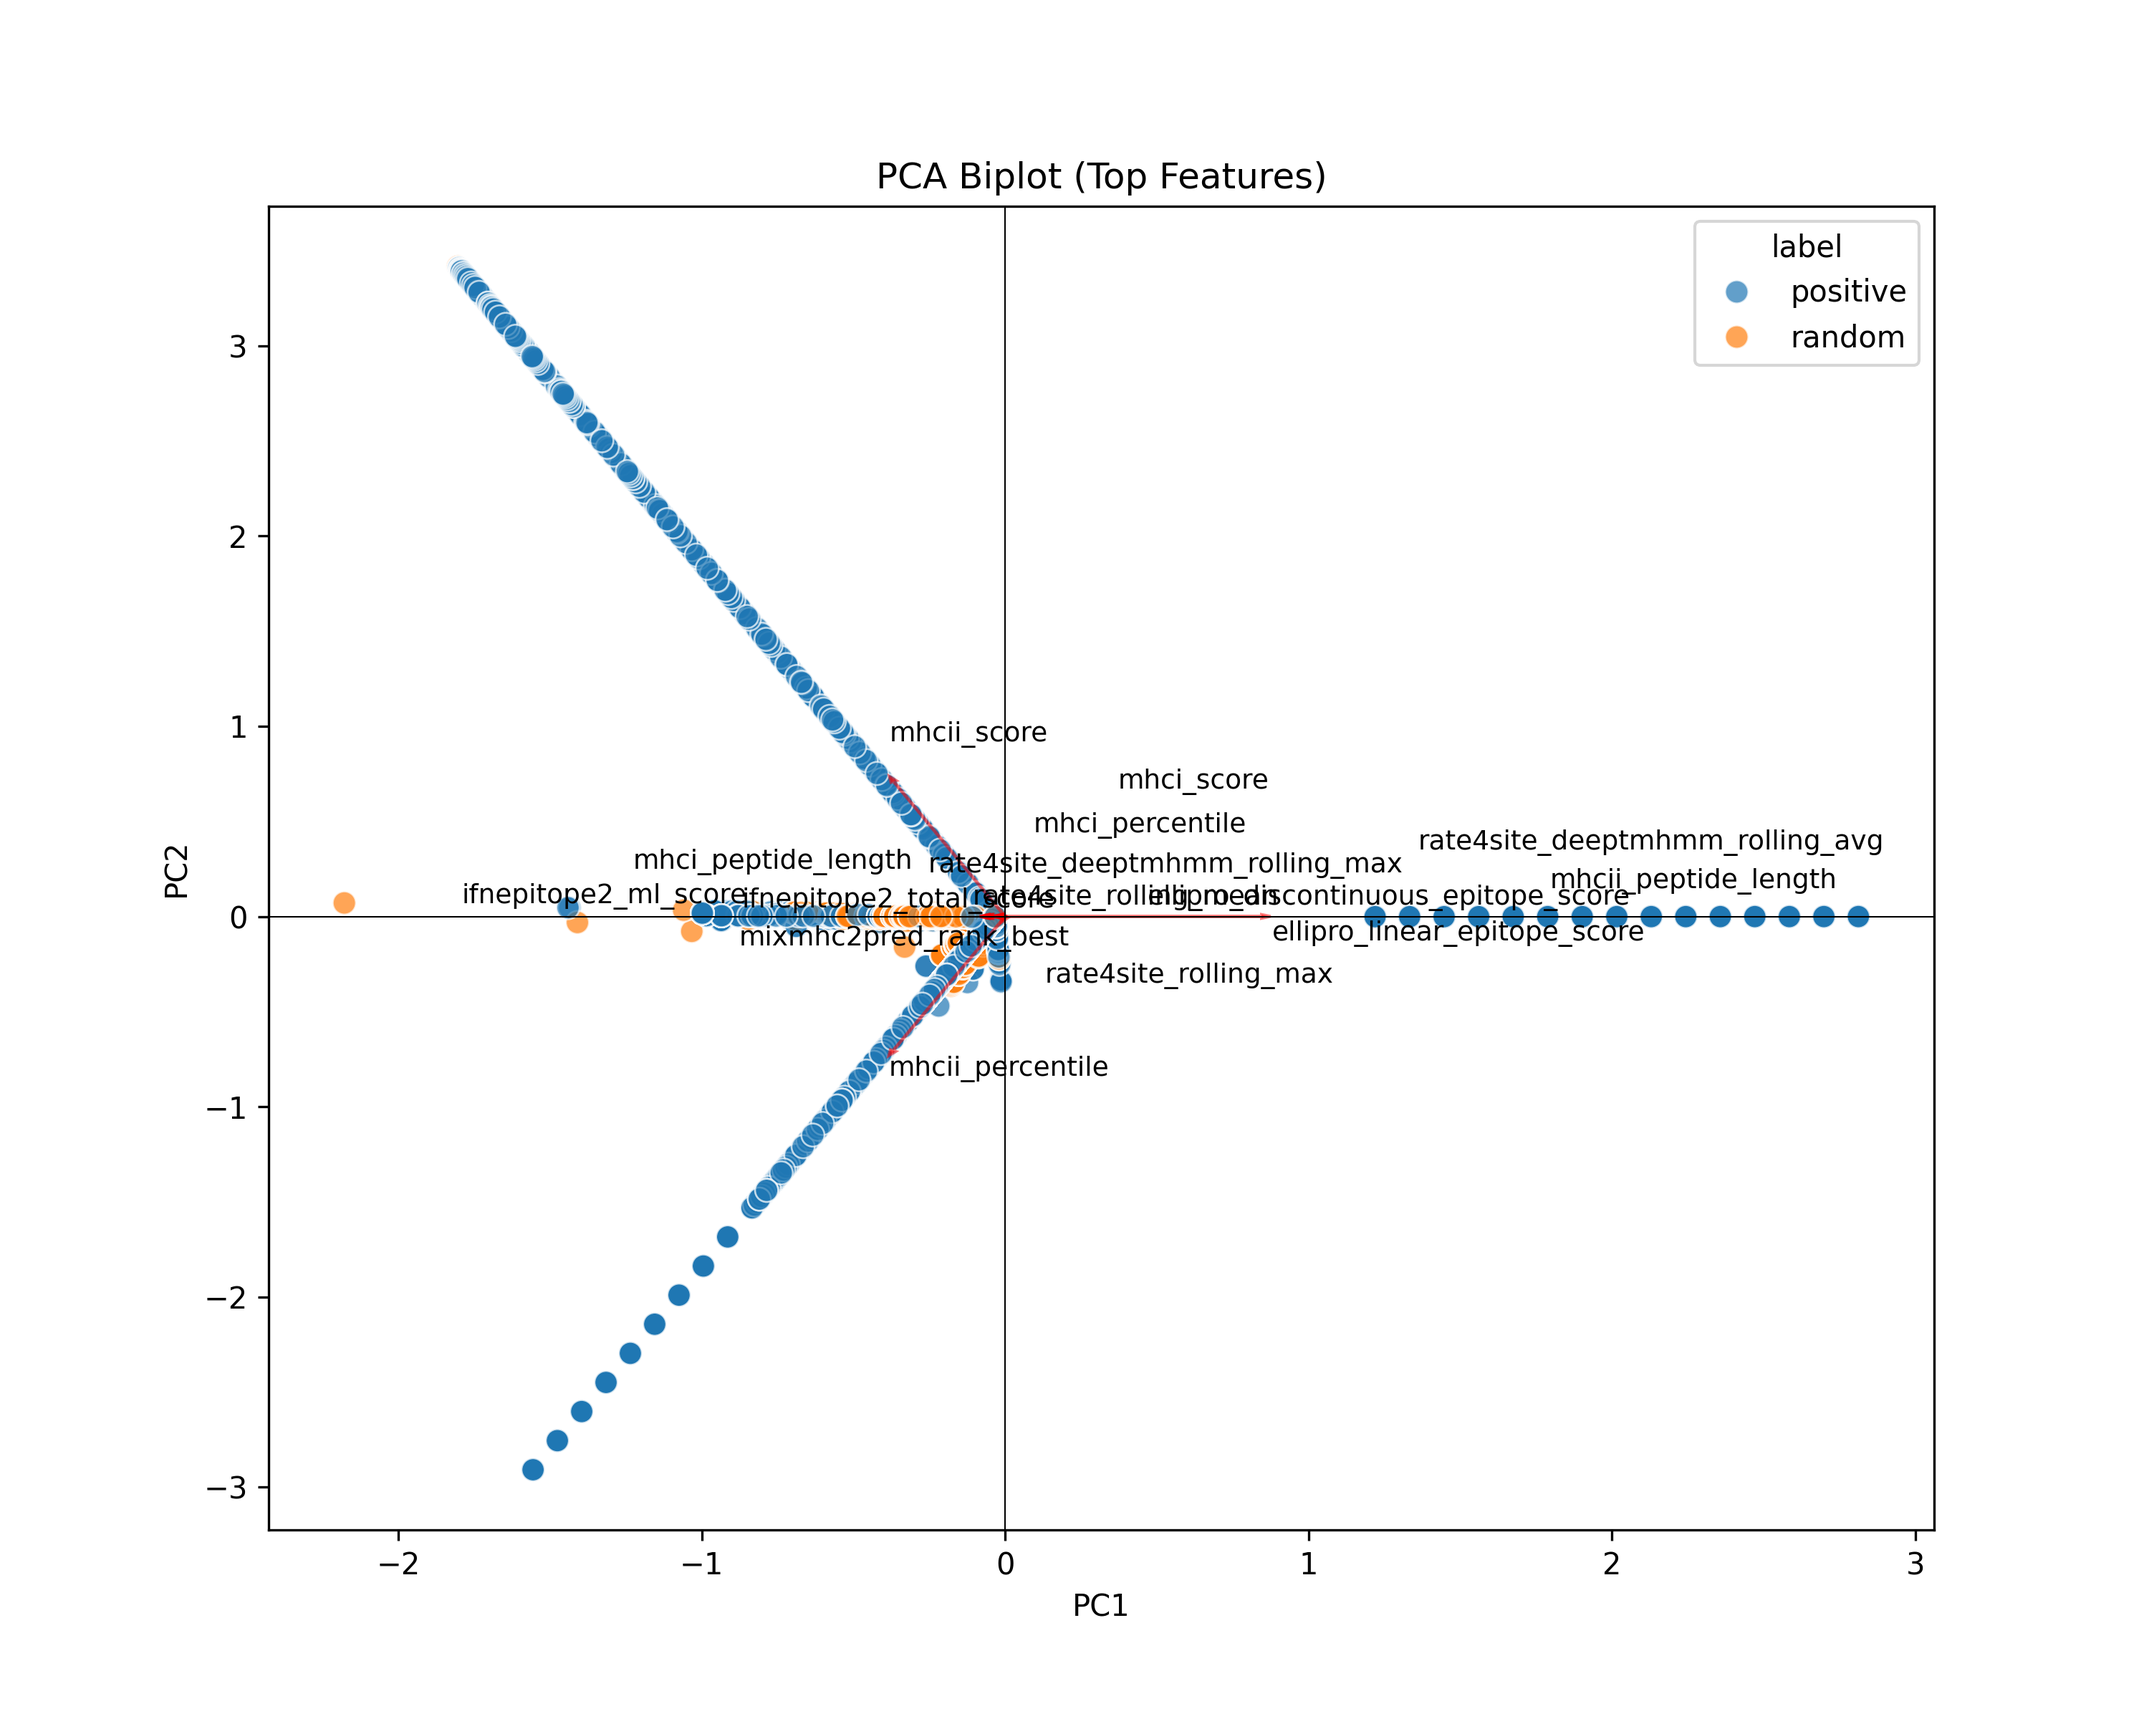
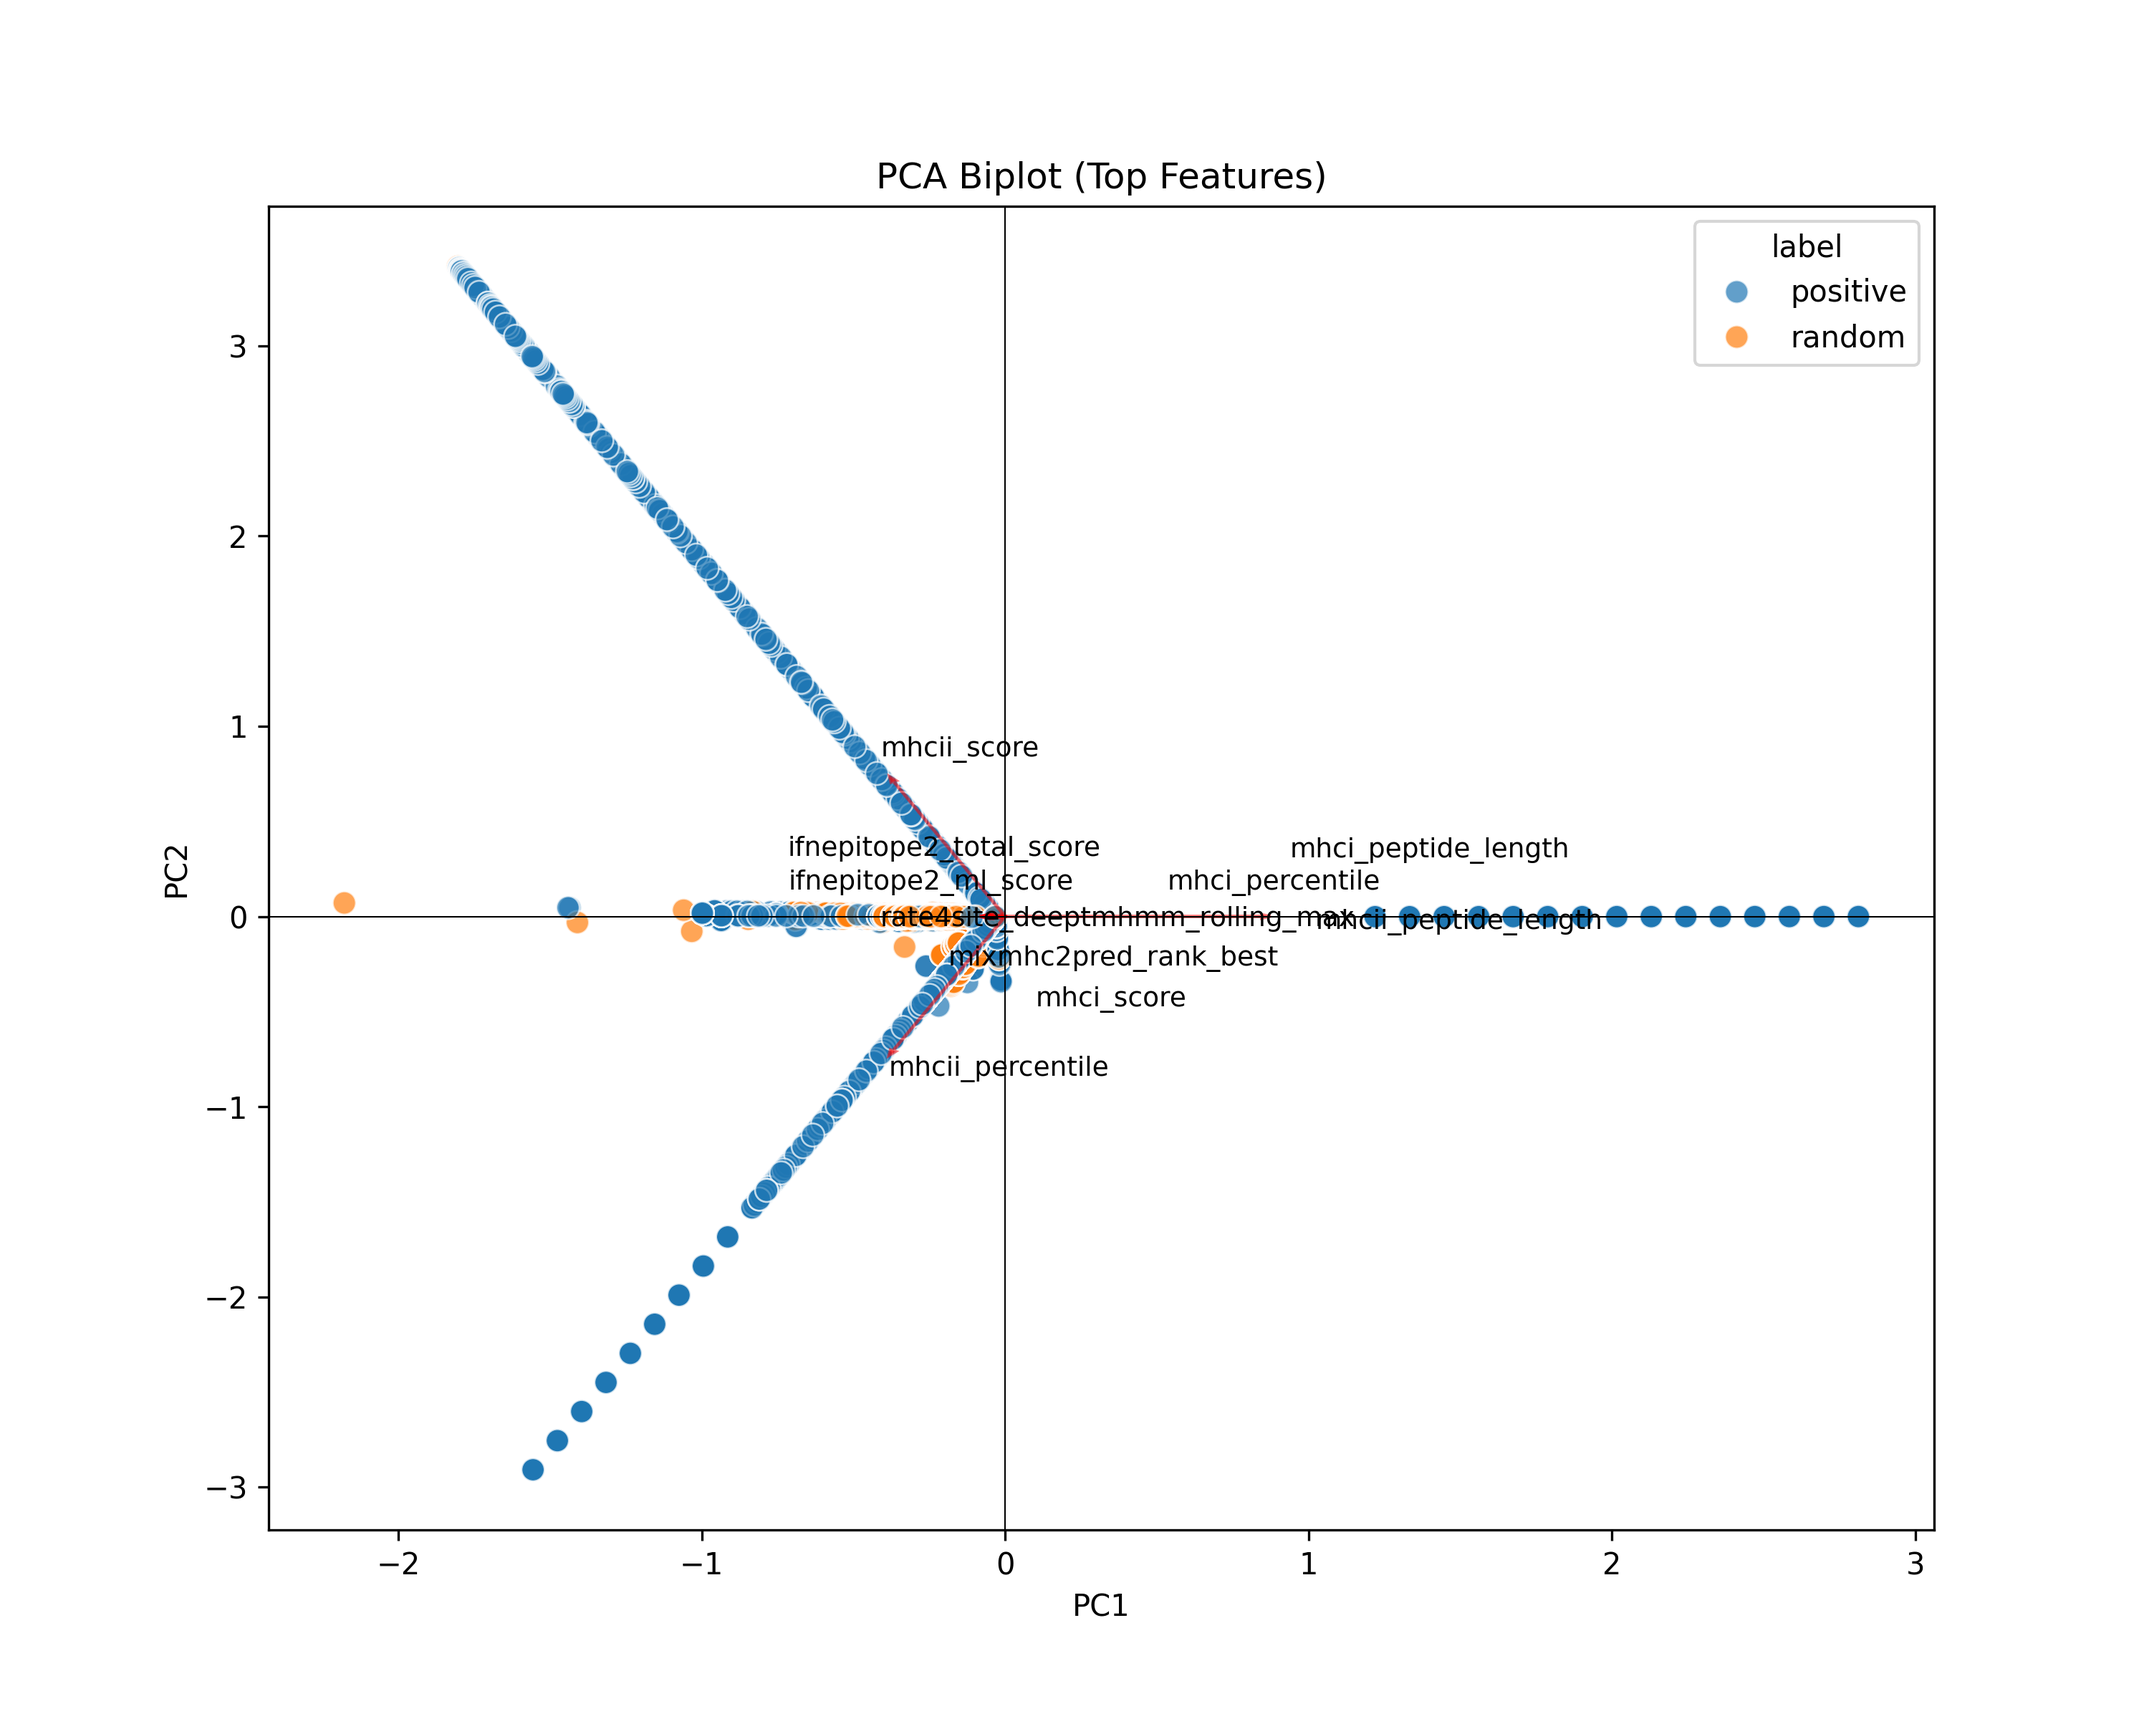
adding updated plots

Changed region(s): [[0.217, 0.4375, 0.868, 0.5938], [0.403, 0.4062, 0.496, 0.4375]]

diff --git a/bin/pca_analysis.py b/bin/pca_analysis.py
@@ -99,7 +99,7 @@ def plot_scree(ipca, output_dir: str):
     }).to_csv(os.path.join(output_dir, "explained_variance.csv"), index=False)
 
 
-def plot_pca_biplot(pca_df, ipca, feature_enc, output_dir: str, top_n=15):
+def plot_pca_biplot(pca_df, ipca, feature_enc, output_dir: str, top_n=10):
     """PCA biplot with samples and top feature loadings."""
     plt.figure(figsize=(10, 8))
     sns.scatterplot(data=pca_df, x="PC1", y="PC2", hue="label", s=60, alpha=0.7)
@@ -124,7 +124,7 @@ def plot_pca_biplot(pca_df, ipca, feature_enc, output_dir: str, top_n=15):
     plt.close()
 
 
-def plot_loading_scatter(ipca, feature_enc, output_dir: str, top_n=20):
+def plot_loading_scatter(ipca, feature_enc, output_dir: str, top_n=10):
     """Scatter plot of feature loadings on PC1 vs PC2."""
     loadings = ipca.components_[:2].T
     feature_names = feature_enc.inverse_transform(np.arange(loadings.shape[0]))
@@ -140,7 +140,7 @@ def plot_loading_scatter(ipca, feature_enc, output_dir: str, top_n=20):
     for i in top_idx:
         x, y = loadings[i, 0], loadings[i, 1]
         plt.scatter(x, y, color="red", s=60)
-        plt.text(x * 1.05, y * 1.05, feature_names[i], fontsize=9)
+        plt.text(x * 1.1, y * 1.1, feature_names[i], fontsize=9)
 
     plt.xlabel("Loading on PC1")
     plt.ylabel("Loading on PC2")
